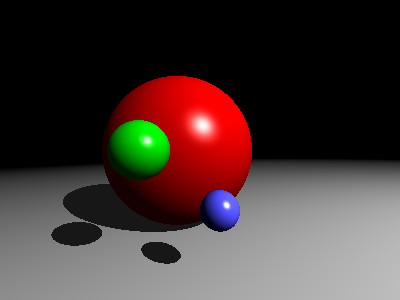
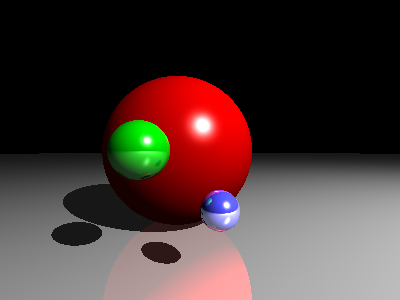
Reflexão e ajustes

diff --git a/scripts/classes/scene.ts b/scripts/classes/scene.ts
@@ -8,6 +8,7 @@ import { Ray } from "./ray";
 import { Sphere } from "./sphere";
 
 export class Scene {
+  maxDepth: number;
   ambientLight: Vector3.T;
 
   instances: Instance[] = [];
@@ -17,6 +18,8 @@ export class Scene {
   }
 
   constructor() {
+    this.maxDepth = 3;
+
     this.ambientLight = [0.9, 0.9, 0.9];
 
     const redMaterial: Material = new Material({
@@ -32,7 +35,7 @@ export class Scene {
       diffuse: [0, 0.7, 0],
       specular: [1, 1, 1],
       shininess: 100,
-      reflection: 0.4,
+      reflection: 0.2,
     });
 
     const blueMaterial: Material = new Material({
@@ -48,7 +51,7 @@ export class Scene {
       diffuse: [0.7, 0.7, 0.7],
       specular: [1, 1, 1],
       shininess: 100,
-      reflection: 0.9,
+      reflection: 1,
     });
 
     this.instances.push(
@@ -106,22 +109,38 @@ export class Scene {
   }
 
   traceRay(ray: Ray) {
-    const hit: Hit | null = this.computeIntersection(ray);
-
     let color: Vector3.T = [0, 0, 0];
-    if (hit) {
-      if (hit.instance.light) {
-        color = Vector3.add(
-          this.ambientLight,
-          Vector3.scaleDivide(
-            Vector3.scale(hit.instance.light.color, hit.instance.light.power),
-            Math.pow(hit.distance, 2)
-          )
+    let reflection = 1;
+
+    for (let k = 0; k < this.maxDepth; k++) {
+      const hit: Hit | null = this.computeIntersection(ray);
+      if (hit) {
+        if (hit.instance.light) {
+          color = Vector3.add(
+            this.ambientLight,
+            Vector3.scaleDivide(
+              Vector3.scale(hit.instance.light.color, hit.instance.light.power),
+              Math.pow(hit.distance, 2)
+            )
+          );
+        } else {
+          const illumination: Vector3.T = hit.instance.material.eval(
+            this,
+            hit,
+            ray.origin
+          );
+          color = Vector3.add(color, Vector3.scale(illumination, reflection));
+          reflection *= hit.instance.material.reflection;
+        }
+        ray = new Ray(
+          hit.shiftedPoint,
+          Vector3.reflect(ray.direction, hit.normal)
         );
       } else {
-        color = hit.instance.material.eval(this, hit, ray.origin);
+        break;
       }
     }
+
     return Vector3.scale(Vector3.clip(color, 0, 1), 255);
   }
 }

diff --git a/scripts/classes/material.ts b/scripts/classes/material.ts
@@ -30,24 +30,27 @@ export class Material {
   eval(scene: Scene, hit: Hit, origin: Vector3.T): Vector3.T {
     let color = Vector3.multiply(this.ambient, scene.ambientLight);
 
-    const v = Vector3.normalize(Vector3.subtract(origin, hit.pos));
-
-    const shiftedPoint = Vector3.add(hit.pos, Vector3.scale(hit.normal, 1e-5));
+    const viewDirection = Vector3.normalize(Vector3.subtract(origin, hit.pos));
     scene.lightSources.forEach((lightSource) => {
-      const [lightColor, lightDirection] = lightSource.light.radiance(
+      const [lightColor, intersectioToLight] = lightSource.light.radiance(
         scene,
         lightSource.shape.position,
-        shiftedPoint
+        hit.shiftedPoint
       );
       const diffuse = Vector3.scale(
         Vector3.multiply(this.diffuse, lightColor),
-        Vector3.dot(lightDirection, hit.normal)
+        Vector3.dot(intersectioToLight, hit.normal)
       );
 
-      const reflectionDirection = Vector3.reflect(lightDirection, hit.normal);
+      const reflectionDirection = Vector3.normalize(
+        Vector3.add(intersectioToLight, viewDirection)
+      );
       const specular = Vector3.scale(
-        this.specular,
-        Math.pow(Vector3.dot(reflectionDirection, v), this.shininess / 4)
+        Vector3.multiply(this.specular, lightColor),
+        Math.pow(
+          Math.max(0, Vector3.dot(hit.normal, reflectionDirection)),
+          this.shininess
+        )
       );
       color = Vector3.add(color, diffuse, specular);
     });

diff --git a/scripts/modules/vector3.ts b/scripts/modules/vector3.ts
@@ -73,12 +73,7 @@ export module Vector3 {
   }
 
   export function reflect(v: Vector3.T, n: Vector3.T): Vector3.T {
-    const dotProduct = Vector3.dot(v, n);
-    const reflectedVector = Vector3.subtract(
-      Vector3.scale(n, 2 * dotProduct),
-      v
-    );
-    return reflectedVector;
+    return Vector3.subtract(v, Vector3.scale(n, 2 * Vector3.dot(v, n)));
   }
 
   export function distance(v1: Vector3.T, v2: Vector3.T) {

diff --git a/scripts/classes/hit.ts b/scripts/classes/hit.ts
@@ -7,6 +7,7 @@ export class Hit {
   backfacing: boolean;
   instance: Instance;
   distance: number;
+  shiftedPoint: Vector3.T;
 
   constructor(
     pos: Vector3.T,
@@ -20,5 +21,7 @@ export class Hit {
     this.backfacing = backfacing;
     this.instance = instance;
     this.distance = distance;
+
+    this.shiftedPoint = Vector3.add(pos, Vector3.scale(normal, 1e-5));
   }
 }

diff --git a/scripts/scene.ts b/scripts/scene.ts
@@ -175,7 +175,7 @@ export function old() {
         reflection = reflection * nearest.material.reflection;
 
         ray.origin = shiftedPoint;
-        ray.direction = Ray.reflect(ray, normalToSurface);
+        ray.direction = Vector3.reflect(ray.direction, normalToSurface);
       }
 
       film.setPixelColor(i, j, Vector3.scale(Vector3.clip(color, 0, 1), 255));

diff --git a/scripts/classes/ray.ts b/scripts/classes/ray.ts
@@ -36,14 +36,4 @@ export class Ray {
     }
     return { nearest, min };
   }
-
-  static reflect(ray: Ray, normalToSurface: Vector3.T): Vector3.T {
-    return Vector3.subtract(
-      ray.direction,
-      Vector3.scale(
-        normalToSurface,
-        2 * Vector3.dot(ray.direction, normalToSurface)
-      )
-    );
-  }
 }
